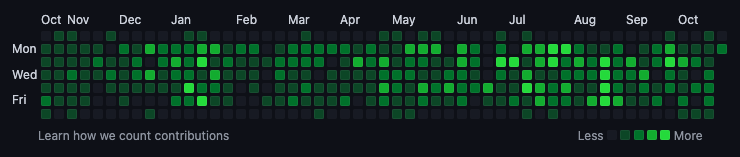
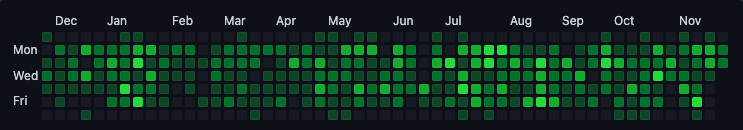
nov github

diff --git a/src/components/GitHubContribution.jsx b/src/components/GitHubContribution.jsx
@@ -5,7 +5,7 @@ const GitHubContribution = () => {
   const store = useContext(MainContext);
   return (
     <div className="w3-row w3-padding-32 gitHub-Contributions" style={{ filter: `hue-rotate(${store.hueRotate}deg)` }}>
-      <p>2331 Total GitHub Contributions</p>
+      <p>2631 Total GitHub Contributions</p>
       <a
         target="_blank"
         rel="noopener noreferrer"
